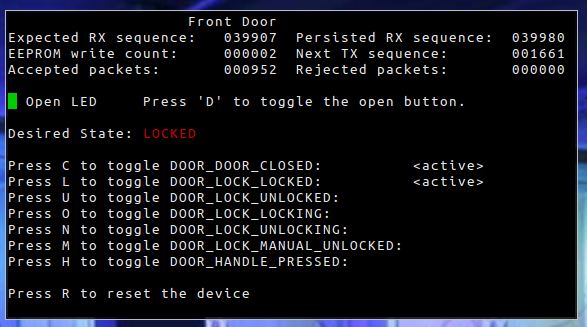
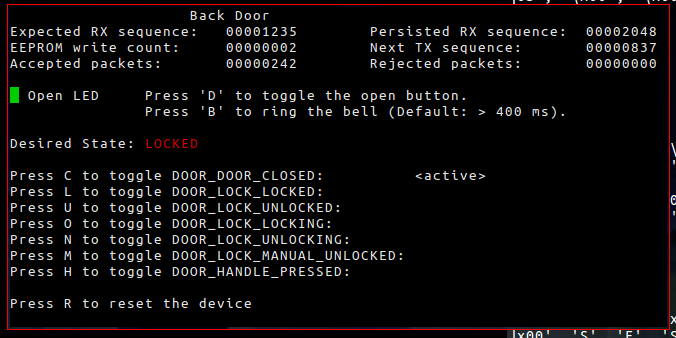
modified door led logic

Changed region(s): [[0.0, 0.0, 1.0, 1.0], [0.2147, 0.2446, 0.8279, 0.367], [0.6133, 0.4893, 0.8279, 0.581]]

diff --git a/software/lockcontroller/command_process.c b/software/lockcontroller/command_process.c
@@ -51,9 +51,10 @@ void cmd_tick(void)
 
     door_setDesiredState(cmd_desiredDoorState);
 
-    if( door_getState() & DOOR_LOCK_LOCKED ){
+    if( (door_getState() & (DOOR_LOCK_LOCKED | DOOR_DOOR_CLOSED)) ==
+            (DOOR_LOCK_LOCKED | DOOR_DOOR_CLOSED) ){
         leds_set(LED_OPEN, LED_SHORT_FLASH);
-    }else if( door_getState() & DOOR_LOCK_UNLOCKED ){
+    }else{
         leds_set(LED_OPEN, LED_ON);
     }
 }
